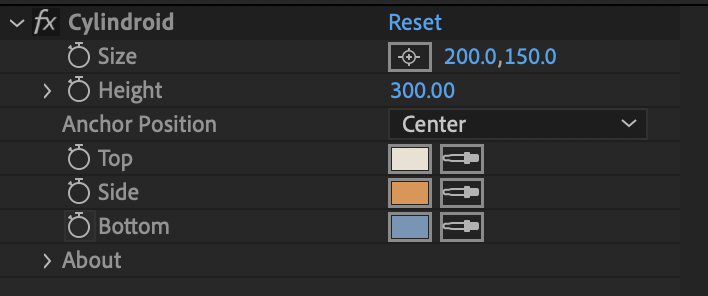
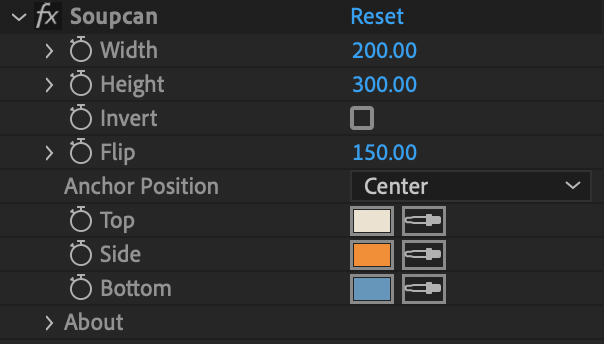
Beatgrid update

Changed region(s): [[0.0, 0.0, 1.0, 0.973], [0.9238, 0.5169, 0.9536, 0.5473], [0.8642, 0.3953, 0.894, 0.4257]]

diff --git a/docs/freebies/beatgrid.md b/docs/freebies/beatgrid.md
@@ -1,6 +1,6 @@
 # Beatgrid
 
-Based on a great idea for a [BPM grid overlay](http://www.sandervandijk.tv/after-effects-features/timeline#1.2-bpm-grid) for the Ae timeline by [Sander Van Dijk](http://www.sandervandijk.tv/). Though not as robust as an integrated solution, it does provide enough to synchronize elements to 4/4 beats with markers and keyframes.
+Based on a brilliant idea for a [BPM grid overlay](http://www.sandervandijk.tv/after-effects-features/timeline#1.2-bpm-grid) inside of Ae's timeline by [Sander Van Dijk](http://www.sandervandijk.tv/). Not nearly as integrated as a native solution, Beatgrid does provide enough to synchronize elements to 4/4 beats with markers and keyframes.
 
 ## Usage
 
@@ -9,57 +9,71 @@ Based on a great idea for a [BPM grid overlay](http://www.sandervandijk.tv/after
     alt="Beatgrid" 
     width="350px" />
 
-BeatGrid's controls are very simple. Enter the beats per minute numerically or using the `-`/`+` buttons then click either the `♩` bor `♬ ♬` buttons. A new empty shape layer will be created with markers on it. Marker 1 (at the start of the timeline) represents the first bar of music including the length of the bar. The next marker will be labeled 5 because it is the 5th bar and the start of the next 4 bar phrase, and so on until the end of the comp.
+Controls are simple: `Tap` the tempo, `-`/`+` buttons to decrease/increase or type in the BPM if you know it. Click the `♩ ♩ ♩ ♩` button to create time markers.
+
+An empty shape layer will be created with markers and keyframes in time with the tempo. Marker `1` (at the start of the timeline) starts the first measure. The next marker will be labeled `5` to mark the 5th measure. Like what you see in music recording apps. This pattern continues until the end of the comp.
 
 <Screenshot 
-    url="/freebies/Beatgrid-01.png" 
+    url="/freebies/Beatgrid-measures.jpg" 
     alt="Beatgrid markers" 
     zoom
     center />
 
-This in not the place for music theory, but BeatGrid provides two levels of granularity.
+### Beat view
 
-### Whole notes
-
-Pressing U will reveal a set of keyframes aligned to the beats that are normally counted:
+Pressing `U` on the keyboard will reveal a set of keyframes aligned to the beats. Keys on the *Anchor Point* will count the measures and keys on the *Position* will count quarter notes:
 
 1, 2, 3, 4 - 2, 2, 3, 4 - 3, 2, 3, 4 - 4, 2, 3, 4
 
 <Screenshot 
-    url="/freebies/Beatgrid-02.png" 
-    alt="Beatgrid markers" 
-    zoom
-    center />
-
-### Quarter notes
-
-For more subdivision that is still linked to the time of the music, 16th notes provide extra flexibility, but may also be hidden with `SHIFT + P` on the keyboard.
-
-<Screenshot 
-    url="/freebies/Beatgrid-03.png" 
+    url="/freebies/Beatgrid-notes.jpg" 
     alt="Beatgrid markers" 
     zoom
     center />
 
 ## FAQ
 ### Can I snap layers to time?
-Select the BeatGrid layer and press `U` on the keyboard to reveal the individual beats. Hold the `SHIFT` key when dragging a layer's start, end and keyframes to snap to the revealed keyframes. This a behavior of Ae and can be useful for aligning elements to the music tempo as well as any other alignment needs.
+Select the Beatgrid layer and press `U` on the keyboard to reveal the individual beats. Hold the `SHIFT` key when dragging a layer's start, end, or keyframes to snap to the revealed Beatgrid keyframes. This is a behavior of Ae and can be useful for aligning elements to the music tempo as well as any other alignment needs.
 
 ### Are the markers and keys aligned to frame? 
-Nope. The point if this is to provide musical timing markers, and this means they will not always line up to your frame-rate. But that's ok. Using `SHIFT` to snap keys or layers will round to the nearest frame.
+Nope. The point of this is to provide musical timing markers, and this means they will not always line up to your frame-rate. But that's ok. Using `SHIFT` to snap keys or layers will round to the nearest frame.
 
 ### Why not just have all the beats as markers on the layer?
 Rather than destroy you timeline with markers or wreck the ability to use `J`/`K` keyboard shortcuts to navigate the timeline, there are multiple levels of detail. This is a choice for an extra step, but I prefer the ability to zoom out and see less musical detail. Similar to an audio DAW like Ableton, Audition, Logic.
 
-### But why?
-When I start a project I will often have a target length in mind but I need to know what musical timing would fit based on the number of measures and how I want the music to progress or resolve through the video. Whether you're writing music or searching for a track that will fit a project length, knowing a rough musical timing can be very valuable.
+### What's the point of all this?
+When I start a project I will often have a target length in mind but I need to know what musical timing would fit based on the number of measures and how I want the music to progress or resolve through the piece. Whether you're writing music or searching for a track that will fit a project length, knowing a rough musical timing can be pretty helpful.
 
 ## Installation
 
 <a href="https://github.com/battleaxedotco/tool-docs/releases/download/beatgrid/Beatgrid.zip" class="nav-link action-button">Download Beatgrid</a>
+
+<pre>
+├── 📂 Beatgrid
+│   ├── 📂 Kbar icon
+│   │   │   └── <a href="/freebies/Beatgrid.svg">Beatgrid.svg</a>
+│   ├──  Beatgrid help.html
+│   ├──  <b>Beatgrid.ffx</b>
+</pre>
 
 <Install 
     scriptUI 
     name="Beatgrid"
     :hosts="['After Effects']"
 />
+
+## Changelog
+
+### 1.1 
+Released: September 22, 2020
+#### Added
+- Tap tempo button
+
+#### Changes 
+- UI redesign
+- Removed emoji for windows support
+- Removed the measure button for a single type of marker creation
+
+### 1.00 
+Released: January 14, 2020
+- Initial release

diff --git a/docs/freebies/README.md b/docs/freebies/README.md
@@ -4,14 +4,22 @@ Free tools created to aid in our own work, requests from friends, or byproducts 
 
 If you enjoy using these freebies, in place of payment, please consider donating to:
 
-- Black lives matter
-- Red Cross
+- [National Multiple Sclerosis Society](https://secure.nationalmssociety.org/site/Donation2?63293.donation=form1&df_id=63293&mfc_pref=T)
+- [Atlanta Solidarity Fund](https://actionnetwork.org/fundraising/contribute-to-the-atlanta-solidarity-fund)
+- [Black Girls Code](https://www.blackgirlscode.com/)
+- [American Red Cross](https://www.redcross.org/donate/donation.html/)
 
 <!-- formatting at https://www.tablesgenerator.com/markdown_tables# -->
 
 
 | Download                                                                                              	| Learning                                                	| Version 	| Release date  	|
 |-------------------------------------------------------------------------------------------------------	|---------------------------------------------------------	|---------	|---------------	|
+| [Buttcapper](https://github.com/battleaxedotco/tool-docs/releases/download/buttcapper/Buttcapper.zip) 	| [Manual](/freebies/buttcapper) 	| 1.5     	| Sept 15, 2020 	|
+| [Beatgrid](https://github.com/battleaxedotco/tool-docs/releases/download/beatgrid/Beatgrid.zip)       	| [Manual](/freebies/beatgrid)   	| 1.0     	| Jan 14, 2020  	|
+| [Soupcan](https://github.com/battleaxedotco/tool-docs/releases/download/soupcan/Soupcan.zip)          	| [Manual](/freebies/soupcan)    	| 1.1     	| Sept 22, 2019 	|
+
+<!-- | Download                                                                                              	| Learning                                                	| Version 	| Release date  	|
+|-------------------------------------------------------------------------------------------------------	|---------------------------------------------------------	|---------	|---------------	|
 | [Buttcapper](https://github.com/battleaxedotco/tool-docs/releases/download/buttcapper/Buttcapper.zip) 	| [Manual](https://help.battleaxe.co/freebies/buttcapper) 	| 1.5     	| Sept 15, 2020 	|
 | [Beatgrid](https://github.com/battleaxedotco/tool-docs/releases/download/beatgrid/Beatgrid.zip)       	| [Manual](https://help.battleaxe.co/freebies/beatgrid)   	| 1.0     	| Jan 14, 2020  	|
-| [Cylindroid](https://github.com/battleaxedotco/tool-docs/releases/download/beatgrid/Beatgrid.zip)     	| [Manual](https://help.battleaxe.co/freebies/cylindroid) 	| 1.0     	| Dec 12, 2019  	|
+| [Soupcan](https://github.com/battleaxedotco/tool-docs/releases/download/soupcan/Soupcan.zip)          	| [Manual](https://help.battleaxe.co/freebies/soupcan)    	| 1.1     	| Sept 22, 2019 	| -->

diff --git a/docs/freebies/soupcan.md b/docs/freebies/soupcan.md
@@ -9,14 +9,12 @@ Faux 3D cylinder preset built from simple shapes for easy animation.
     center />
 
 
-## Usage
+## Create new shape
 
-### Create 
-
-#### *From Presets & Effects panel*
+### *From Presets & Effects panel*
 Drag the preset into your comp to create a new layer with the shapes and controls.
 
-#### *From KBar*
+### *From KBar*
 Create a shape layer with anything in it (keyboard shortcut Q) then click the appropriate KBar button to replace the shapes and add controls.
 
 ## Controls
@@ -24,12 +22,15 @@ Create a shape layer with anything in it (keyboard shortcut Q) then click the ap
 <Screenshot 
     url="/freebies/Soupcan-panel.png" 
     alt="Cylintroid controls" 
-    width="450px"
+    width="400px"
     center />
 
-- **Size**: The radius of the upper circle and the overall width of the shape 
-  - Setting the Y size to negative will show the bottom edge
-- **Height**: The height of the shape 
+- **Width**: The horizontal size of the shape 
+- **Height**: The vertical size of the shape 
+- **Invert**: Toggle the locations of the top and bottom colors
+  - Useful when flipping the shape and the motion should continue rather than oscillate
+- **Flip**: Simulation of rotation along the x-axis 
+  - Negative values show the bottom edge of the shape
 - **Anchor Position**: sets the location of the layer's anchor point to control how a cylinder expands. Center expands outward, Top expands down, Bottom expands upward. The top and bottom anchors will be set at the midpoints of the upper and lower faces of the cylinder.
 
 ## Examples
@@ -53,15 +54,17 @@ Create a shape layer with anything in it (keyboard shortcut Q) then click the ap
 
 ## Installation
 
-<Screenshot 
-    url="/freebies/Soupcan.svg" 
-    alt="Soupcan icon" 
-    toolbar
-    center />
+<a href="https://github.com/battleaxedotco/tool-docs/releases/download/soupcan/Soupcan.zip" class="nav-link action-button">Download Soupcan</a>
 
-### Includes KBar icon
-
-<a href="" class="nav-link action-button">Download Soupcan</a>
+<pre>
+├── 📂 Soupcan
+│   ├── 📂 aep
+│   │   │   └── Soupcan-Coin flip.aep
+│   ├── 📂 Kbar icon
+│   │   │   └── <a href="/freebies/Soupcan.svg">Soupcan.svg</a>
+│   ├──  Soupcan help.html
+│   ├──  <b>Soupcan.ffx</b>
+</pre>
 
 
 <Install 
@@ -72,6 +75,15 @@ Create a shape layer with anything in it (keyboard shortcut Q) then click the ap
 
 
 ## Changelog
+
+### 1.1
+Released: September 22, 2020
+#### Added
+- Separate Flip control
+- Invert control for full rotation
+
+#### Changed
+- Updates to shape layering for more stable drawing at thin sizes
 
 ### 1.02
 Released: September 15, 2020

diff --git a/docs/README.md b/docs/README.md
@@ -21,8 +21,8 @@ freebies:
 - title: Beatgrid
   link: /freebies/beatgrid
   details: BPM markers to sync keyframes to music or as a rhythm anchor before adding audio.
-- title: Cylindroid
-  link: /freebies/cylindroid
+- title: Soupcan
+  link: /freebies/soupcan
   details: Faux 3D cylinder preset built from simple shapes for easy animation.
 # - title: Hylian
 #   link: /freebies/hylian
